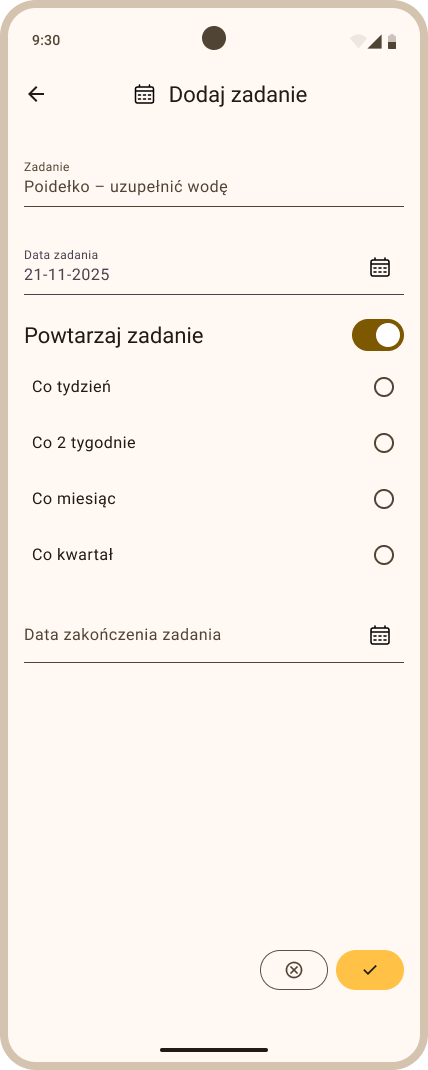
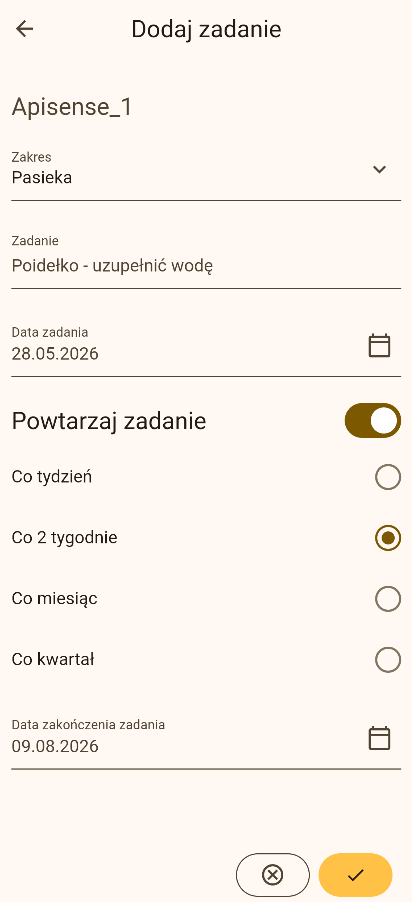
update text

diff --git a/docs/manual/app-manual.en.md b/docs/manual/app-manual.en.md
@@ -567,18 +567,17 @@ Figure: Deleting a note from the hive note list {#fig-beehive-details-remove-not
 
 ### 5. Tasks
 
-Tasks (calendar) let you plan apiary work — inspections, feeding, honey harvests, maintenance. Each task has a date, a status (*To do* / *Done*) and a **scope** that defines which apiaries and hives it applies to. Tasks can be configured to repeat (series) and marked as done as you carry them out.
+Tasks (calendar) let you plan apiary work — inspections, feeding, honey harvests, maintenance. Each task has a date, a status (*To do* / *Done*) and a **scope** that defines which apiaries and hives it applies to. Tasks can repeat (series) and be marked as done as you carry them out.
 
 #### 5.1 What is a task
 
 Each task contains the following information:
 
-- **Name** — short title (required).
-- **Description** — details, contextual note (optional).
-- **Date** — when the task is to be done.
-- **Status** — *To do* (planned) or *Done*.
+- **Task** — short description/name of the task, contextual note (required field).
+- **Task date** — when the task is to be done.
+- **Status** — *To do* (planned) or *Done*. Note: Task status can only be changed after the task has been added to the calendar.
 - **Scope** — whether the task applies to the whole apiary, selected hives, or a single hive (see [5.2 Task scope](#52-task-scope-where-it-is-visible-and-editable)).
-- **Recurrence** — optional; every 7 days, 14 days, 1 month or 3 months, with a series end date (see [5.5 Repeating tasks](#55-repeating-tasks)).
+- **Recurrence** — optional; every 1 week, 2 weeks, 1 month or 3 months, with a series end date (see [5.5 Repeating tasks](#55-repeating-tasks)).
 
 #### 5.2 Task scope (where it is visible and editable)
 
@@ -591,11 +590,11 @@ The scope defines where the task is visible and from where it can be edited and 
 | Single hive      | Yes                    | Yes — only in that one hive   | Yes                      |
 
 !!! tip
-    Tasks with scope *Whole apiary* or *Selected hives* can be edited and deleted **only from the apiary level** — from the hive level they are read-only. A task created for a single hive can be edited and deleted from that hive's level.
+    Tasks with scope *Whole apiary* or *Selected hives* can be edited and deleted **only from the apiary level** — from the hive level they are read-only. A task created for a single hive can be edited and deleted from that hive's level, as well as from the apiary level.
 
 #### 5.3 Adding a task from the apiary level
 
-From the apiary level you can create a task for the **whole apiary**, for **selected hives**, or as a recurring series.
+From the apiary level you can create a task for the **whole apiary** (Scope: Apiary), for **selected hives**, or several tasks in a series.
 
 - In the *Apiaries* tab, click the tile of the apiary for which you want to add a task. The *Hives* view will be displayed.
 - From the bottom menu choose *Add...*, then *Task* ([](#fig-apiary-add-task)). The *Add task* view will be displayed.
@@ -606,19 +605,20 @@ Figure: Add task view from the apiary level {#fig-apiary-add-task}
 
 - In the *Add task* view fill in the following fields:
 
-    - **Name** — enter the task title (e.g. *Spring inspection*).
-    - **Description** — optionally add details (e.g. *Check winter stores, assess colony strength*).
-    - **Date** — choose the task date (current date by default).
     - **Scope** — select one of:
-        - *Whole apiary* — the task will appear in all hives in this apiary.
-        - *Selected hives* — after choosing this option, pick the specific hives from the list.
+        - *Apiary* — the task will appear in all hives in this apiary.
+        - *Selected hives* — after choosing this option, select the specific hives from the list.
+    - **Task** — enter the task content (e.g. *Spring inspection*).
+    - **Task date** — choose the task date (current date by default).
     - **Recurrence** (optional) — see [5.5 Repeating tasks](#55-repeating-tasks).
 
-- To save the task, click the yellow button in the bottom right corner of the screen. The saved task will appear on the apiary task list (*Tasks* tab).
+- To save the task, click the yellow button in the bottom right corner of the screen. The saved task will appear on the apiary task list (*Tasks* tab) and in all hives in this apiary (*Hive details > More > Tasks*).
 
 #### 5.4 Adding a task from the hive level
 
-A task added from the hive level automatically has scope *Single hive* — it is visible only in that hive and can be edited from its level.
+A task added from the hive level will appear on the task list in that specific hive and in the apiary. Such a task can also be edited or deleted from both levels — apiary and hive.
+
+To add a task from the hive level:
 
 - In the *Apiaries* tab click the apiary tile, then click the hive tile for which you want to add a task. The *Hive details* view will be displayed.
 - From the bottom menu choose *Add...*, then *Task* ([](#fig-beehive-add-task)). The *Add task* view will be displayed.
@@ -627,22 +627,19 @@ Figure: Add task view from the hive level {#fig-beehive-add-task}
 
 ![figure](pictures/beehive_add_task.PNG){width=200}
 
-- Fill in **Name**, **Description** (optional), **Date** and optionally **Recurrence**. There is no scope picker — the task automatically applies to this hive.
+- Fill in **Task** (required), **Task date**, and optionally check **Repeat task**. There is no scope picker — the task automatically applies to this hive.
 - Click the yellow save button in the bottom right corner.
 
 #### 5.5 Repeating tasks
 
-A task can be configured to repeat. In the *Recurrence* section of the *Add task* view choose:
+A task can be configured to repeat ([](#fig-task-series-apply-to)). In the *Repeat task* section of the *Add task* view choose:
 
-- **Frequency** — every 7 days, 14 days, 1 month or 3 months.
-- **Series end date** — at most 1 year from the first task date.
+- **Frequency** — every 1 week, 2 weeks, 1 month or 3 months.
+- **Task end date** — at most 1 year from the date of the first task.
 
-The app will create separate task occurrences for every date in this range. All occurrences belong to one **series** and can be edited or deleted together.
+The app will create separate task occurrences according to the chosen frequency (e.g. every week) within the given date range. Each occurrence is an independent task and can be edited or deleted separately.
 
-!!! tip
-    When editing or deleting a recurring task, you choose the scope of the change: **this occurrence only**, **this and future occurrences**, or **all occurrences in the series** ([](#fig-task-series-apply-to)). When changing the task date in a series, only the *this occurrence only* option is available.
-
-Figure: Choosing the series change scope {#fig-task-series-apply-to}
+Figure: Creating a recurring task {#fig-task-series-apply-to}
 
 ![figure](pictures/task_series_apply_to.PNG){width=200}
 
@@ -655,11 +652,14 @@ Figure: Marking a task as done {#fig-task-mark-done}
 
 ![figure](pictures/task_mark_done.PNG){width=200}
 
+!!! note
+    From the apiary level you can mark any task as done. From the hive level you can mark as done only a task that was added from that specific hive.
+
 #### 5.7 Editing a task
 
-- On the task list click the chosen task or the pencil icon to open the *Edit task* view ([](#fig-task-edit)).
-- Update fields: **Name**, **Description**, **Date**, **Status** or (for single-hive tasks edited from the apiary level) **Scope**.
-- For a recurring task, choose whether the change applies to this occurrence only, this and future, or all occurrences in the series (see [5.5 Repeating tasks](#55-repeating-tasks)).
+- On the task list, click the pencil icon next to the chosen task to open the *Edit task* view ([](#fig-task-edit)).
+- Update fields: **Task**, **Task date**, **Repeat task**.
+- For a recurring task, choose the frequency (e.g. *Every month*) and fill in the *Task end date* (see [5.5 Repeating tasks](#55-repeating-tasks)).
 - Save the changes with the yellow button in the bottom right corner.
 
 Figure: Editing a task {#fig-task-edit}
@@ -667,34 +667,37 @@ Figure: Editing a task {#fig-task-edit}
 ![figure](pictures/task_edit.png){width=200}
 
 !!! note
-    Tasks with scope *Whole apiary* or *Selected hives* can be edited and deleted **only from the apiary level**. From the hive level you will see such a task only as a read-only preview — without edit and delete icons.
+    Tasks with scope *Apiary* or *Selected hives* can be edited and deleted **only from the apiary level**. From the hive level you will see such a task only as a read-only preview — with a grayed-out pencil icon.
 
 #### 5.8 Deleting a task
 
-- On the task list swipe the row with the chosen task to the left, or use the bin icon available in the task view ([](#fig-task-delete)).
-- Confirm the deletion. For tasks in a series, also confirm the deletion scope (this occurrence only / this and future / all).
+- On the task list swipe the row with the chosen task to the left ([](#fig-task-delete)).
+- To delete the chosen task, click the bin icon on the red background.
 
 Figure: Deleting a task {#fig-task-delete}
 
 ![figure](pictures/task_delete.PNG){width=200}
 
+!!! note
+    Tasks with scope *Apiary* or *Selected hives* can be edited and deleted **only from the apiary level**. Deleting such a task from the apiary level will automatically remove the related tasks from the view in all hives.
+
 #### 5.9 Task list and filtering
 
 You will find the task list in the *Tasks* tab:
 
-- **From the apiary level** — displays all apiary tasks: scope *Whole apiary*, *Selected hives*, and single-hive tasks belonging to that apiary ([](#fig-apiary-tasks-list)).
+- **From the apiary level** — displays all apiary tasks: scope *Apiary*, *Selected hives*, and single-hive tasks belonging to that apiary ([](#fig-apiary-tasks-list)).
 
 Figure: Task list in the apiary view {#fig-apiary-tasks-list}
 
 ![figure](pictures/apiary_tasks.png){width=200}
 
-- **From the hive level** — displays the tasks visible in this hive: *Whole apiary* tasks, *Selected hives* tasks covering this hive, and *Single hive* tasks for this hive ([](#fig-beehive-tasks-list)).
+- **From the hive level** — displays the tasks visible in this hive: *Apiary* tasks, *Selected hives* tasks covering this hive, and *Single hive* tasks for this hive ([](#fig-beehive-tasks-list)).
 
 Figure: Task list in the hive view {#fig-beehive-tasks-list}
 
 ![figure](pictures/beehive_details_tasks_list.png){width=200}
 
-You can filter the task list by date and status (*To do* / *Done*). In the hive view, tasks that do not apply directly to this hive (scope *Whole apiary* or *Selected hives*) have no edit icons — such tasks are read-only.
+You can filter the task list by status (*All*, *To do*, *Done*).
 
 ### 6. Confirming diseases
 

diff --git a/docs/manual/app-manual.pl.md b/docs/manual/app-manual.pl.md
@@ -566,10 +566,9 @@ Zadania (kalendarz) pozwalają planować pracę w pasiece — przeglądy, podkar
 
 Każde zadanie zawiera następujące informacje:
 
-- **Nazwa** — krótki tytuł (pole wymagane).
-- **Opis** — szczegóły, notatka kontekstowa (pole opcjonalne).
-- **Data** — kiedy zadanie ma być wykonane.
-- **Status** — *Do zrobienia* (planowane) lub *Wykonane*.
+- **Zadanie** — krótki opis/nazwa zadania, notatka kontekstowa (pole wymagane).
+- **Data zadania** — kiedy zadanie ma być wykonane.
+- **Status** — *Do zrobienia* (planowane) lub *Wykonane*. Uwaga: Status zadania można zmienić dopiero po dodaniu zadania do kalendarza.
 - **Zakres** — czy zadanie dotyczy całej pasieki, wybranych uli, czy jednego ula (patrz [5.2 Zakres zadania](#52-zakres-zadania-gdzie-jest-widoczne-i-edytowalne)).
 - **Powtarzanie** — opcjonalne; co 7 dni, 14 dni, 1 miesiąc lub 3 miesiące, z datą końca serii (patrz [5.5 Powtarzanie zadań](#55-powtarzanie-zadan)).
 
@@ -583,12 +582,12 @@ Zakres określa, gdzie zadanie jest widoczne oraz skąd można je edytować i us
 | Wybrane ule       | Tak                       | Tak — tylko w wybranych ulach  | Nie                      |
 | Pojedynczy ul     | Tak                       | Tak — tylko w tym jednym ulu   | Tak                      |
 
-!!! tip
-    Zadania o zakresie *Cała pasieka* i *Wybrane ule* są edytowalne i usuwane wyłącznie z poziomu pasieki — z poziomu ula są dostępne tylko do podglądu. Zadanie utworzone dla pojedynczego ula można edytować i usunąć z poziomu tego ula.
+!!! Wskazówka
+    Zadania o zakresie *Cała pasieka* i *Wybrane ule* są edytowalne i usuwane wyłącznie z poziomu pasieki — z poziomu ula są dostępne tylko do podglądu. Zadanie utworzone dla pojedynczego ula można edytować i usunąć z poziomu tego ula, jak i z poziomu pasieki.
 
 #### 5.3 Dodawanie zadania z poziomu pasieki
 
-Z poziomu pasieki możesz utworzyć zadanie dla **całej pasieki**, dla **wybranych uli** lub kilka zadań w serii.
+Z poziomu pasieki możesz utworzyć zadanie dla **całej pasieki** (Zakres: Pasieka), dla **wybranych uli** lub kilka zadań w serii.
 
 - W zakładce *Pasieki* kliknij kafelek z pasieką, dla której chcesz dodać zadanie. Zostanie wyświetlony widok *Ule*.
 - Z dolnego menu wybierz opcję *Dodaj...*, a następnie *Zadanie* ([](#fig-apiary-add-task)). Zostanie wyświetlony widok *Dodaj zadanie*.
@@ -599,19 +598,20 @@ Figure: Widok Dodaj zadanie z poziomu pasieki {#fig-apiary-add-task}
 
 - W widoku *Dodaj zadanie* wypełnij następujące pola:
 
-    - **Nazwa** — wpisz tytuł zadania (np. *Przegląd wiosenny*).
-    - **Opis** — opcjonalnie dodaj szczegóły (np. *Sprawdzić zapasy zimowe, ocenić siłę rodziny*).
-    - **Data** — wybierz datę zadania (domyślnie aktualna).
     - **Zakres** — wybierz jedną z opcji:
-        - *Cała pasieka* — zadanie pojawi się we wszystkich ulach tej pasieki.
+        - *Pasieka* — zadanie pojawi się we wszystkich ulach tej pasieki.
         - *Wybrane ule* — po wyborze opcji zaznacz konkretne ule z listy.
+    - **Zadanie** — wpisz treść zadania (np. *Przegląd wiosenny*).
+    - **Data zadania** — wybierz datę zadania (domyślnie aktualna).    
     - **Powtarzanie** (opcjonalnie) — patrz [5.5 Powtarzanie zadań](#55-powtarzanie-zadan).
 
-- Aby zapisać zadanie, kliknij żółty przycisk w prawym dolnym rogu ekranu. Zapisane zadanie pojawi się na liście zadań pasieki (zakładka *Zadania*).
+- Aby zapisać zadanie, kliknij żółty przycisk w prawym dolnym rogu ekranu. Zapisane zadanie pojawi się na liście zadań pasieki (zakładka *Zadania*) oraz we wszystkich ulach w tej pasiece (*Szczegóły ula > Więcej > Zadania*).
 
 #### 5.4 Dodawanie zadania z poziomu ula
 
-Zadanie dodane z poziomu ula ma automatycznie zakres *Pojedynczy ul* — jest widoczne tylko w tym ulu i można je edytować z jego poziomu.
+Zadanie dodane z poziomu ula będzie widoczne na liście zadań, zarówno w tym konkretnym ulu jak i w pasiece. Takie zadanie będzie można również edytować lub usunąć z obu tych poziomów - pasieki i ula. 
+
+Aby dodać zadanie z poziomu ula:
 
 - W zakładce *Pasieki* kliknij kafelek z pasieką, a następnie kafelek ula, dla którego chcesz dodać zadanie. Zostanie wyświetlony widok *Szczegóły ula*.
 - Z dolnego menu wybierz opcję *Dodaj...*, a następnie *Zadanie* ([](#fig-beehive-add-task)). Zostanie wyświetlony widok *Dodaj zadanie*.
@@ -620,22 +620,19 @@ Figure: Widok Dodaj zadanie z poziomu ula {#fig-beehive-add-task}
 
 ![figure](pictures/beehive_add_task.PNG){width=200}
 
-- Uzupełnij pola **Nazwa**, **Opis** (opcjonalnie), **Data** oraz opcjonalnie **Powtarzanie**. Brak wyboru zakresu — zadanie automatycznie dotyczy tego ula.
+- Uzupełnij pola **Zadanie** (wymagane), **Data zadania** oraz opcjonalnie zaznacz **Powtarzaj zadanie**. Brak wyboru zakresu — zadanie automatycznie dotyczy tego ula.
 - Kliknij żółty przycisk zapisu w prawym dolnym rogu.
 
 #### 5.5 Powtarzanie zadań
 
-Zadanie można skonfigurować jako powtarzające się. W sekcji *Powtarzanie* w widoku *Dodaj zadanie* wybierz:
+Zadanie można skonfigurować jako powtarzające się ([](#fig-task-series-apply-to)). W sekcji *Powtarzaj zadanie* w widoku *Dodaj zadanie* wybierz:
 
-- **Częstotliwość** — co 7 dni, 14 dni, 1 miesiąc lub 3 miesiące.
-- **Data końca serii** — maksymalnie 1 rok od daty pierwszego zadania.
+- **Częstotliwość** — co 1 tydzień, 2 tygodnie, 1 miesiąc lub 3 miesiące.
+- **Data zakończenia zadania** — maksymalnie 1 rok od daty pierwszego zadania.
 
-Aplikacja utworzy osobne wystąpienia zadania dla każdej daty z tego zakresu. Wszystkie wystąpienia należą do jednej **serii** i mogą być edytowane lub usunięte razem.
+Aplikacja utworzy osobne wystąpienia zadania zgodnie z wybraną częstotliwością (np. co tydzień) w podanym zakresie dat. Każde wystąpienie jest niezależnym zadaniem i może być edytowane lub usunięte osobno.
 
-!!! tip
-    Przy edycji lub usunięciu powtarzającego się zadania wybierasz, czego ma dotyczyć zmiana: **tylko to wystąpienie**, **to i przyszłe wystąpienia** lub **wszystkie wystąpienia w serii** ([](#fig-task-series-apply-to)). Przy zmianie daty zadania w serii dostępna jest wyłącznie opcja *tylko to wystąpienie*.
-
-Figure: Wybór zakresu zmiany w serii {#fig-task-series-apply-to}
+Figure: Utworzenie cyklicznego zadania {#fig-task-series-apply-to}
 
 ![figure](pictures/task_series_apply_to.PNG){width=200}
 
@@ -648,46 +645,52 @@ Figure: Oznaczanie zadania jako wykonane {#fig-task-mark-done}
 
 ![figure](pictures/task_mark_done.PNG){width=200}
 
+!!! Uwaga
+    Z poziomu pasieki można oznaczyć dowolne zadanie jako wykonane. Z poziomu ula można oznaczyć jako wykonane wyłącznie zadanie, które zostało dodane z poziomu tego konkretnego ula.
+
 #### 5.7 Edycja zadania
 
-- Na liście zadań kliknij wybrane zadanie lub ikonę ołówka, aby otworzyć widok *Edycja zadania* ([](#fig-task-edit)).
-- Zaktualizuj pola: **Nazwa**, **Opis**, **Data**, **Status** lub (dla zadań pojedynczego ula z poziomu pasieki) **Zakres**.
-- Dla zadania powtarzającego się wybierz, czy zmiana ma dotyczyć tylko tego wystąpienia, tego i przyszłych, czy wszystkich w serii (patrz [5.5 Powtarzanie zadań](#55-powtarzanie-zadan)).
+- Na liście zadań przy wybranym zadaniu kliknij ikonę ołówka, aby otworzyć widok *Edycja zadania* ([](#fig-task-edit)).
+- Zaktualizuj pola: **Zadanie**, **Data zadania**, **Powtarzaj zadanie**.
+- Dla zadania powtarzającego się wybierz częstotliwość (np. *Co miesiąc*) oraz uzupełnij *Datę zakończenia zadania* (patrz [5.5 Powtarzanie zadań](#55-powtarzanie-zadan)).
 - Zapisz zmiany żółtym przyciskiem w prawym dolnym rogu.
 
 Figure: Edycja zadania {#fig-task-edit}
 
 ![figure](pictures/task_edit.png){width=200}
 
-!!! note
-    Zadania o zakresie *Cała pasieka* lub *Wybrane ule* można edytować i usuwać **wyłącznie z poziomu pasieki**. Z poziomu ula zobaczysz takie zadanie tylko jako podgląd — bez ikon edycji i usunięcia.
+!!! Uwaga
+    Zadania o zakresie *Pasieka* lub *Wybrane ule* można edytować i usuwać **wyłącznie z poziomu pasieki**. Z poziomu ula zobaczysz takie zadanie tylko jako podgląd — z wyszarzona ikoną ołówka.
 
 #### 5.8 Usuwanie zadania
 
-- Na liście zadań przesuń wiersz z wybranym zadaniem w lewą stronę lub użyj ikony kosza dostępnej w widoku zadania ([](#fig-task-delete)).
-- Potwierdź usunięcie. Dla zadań w serii potwierdź również zakres usunięcia (tylko to wystąpienie / to i przyszłe / wszystkie).
+- Na liście zadań przesuń wiersz z wybranym zadaniem w lewą stronę ([](#fig-task-delete)).
+- Aby usunąć wybrane zadanie kliknij ikonę kosza na czerwonym tle.
 
 Figure: Usuwanie zadania {#fig-task-delete}
 
 ![figure](pictures/task_delete.PNG){width=200}
 
+!!! Uwaga
+    Zadania o zakresie *Pasieka* lub *Wybrane ule* można edytować i usuwać **wyłącznie z poziomu pasieki**. Usunięcie takiego zadania z poziomu pasieki spowoduje automatyczne usunięcie powiązanych z nim zadań z widoku wszystkich uli.
+
 #### 5.9 Lista zadań i filtrowanie
 
 Listę zadań znajdziesz w zakładce *Zadania*:
 
-- **Z poziomu pasieki** — wyświetla wszystkie zadania pasieki: o zakresie *Cała pasieka*, *Wybrane ule* oraz zadania pojedynczych uli należących do tej pasieki ([](#fig-apiary-tasks-list)).
+- **Z poziomu pasieki** — wyświetla wszystkie zadania pasieki: o zakresie *Pasieka*, *Wybrane ule* oraz zadania pojedynczych uli należących do tej pasieki ([](#fig-apiary-tasks-list)).
 
 Figure: Lista zadań w widoku pasieki {#fig-apiary-tasks-list}
 
 ![figure](pictures/apiary_tasks.png){width=200}
 
-- **Z poziomu ula** — wyświetla zadania widoczne w tym ulu: zadania o zakresie *Cała pasieka*, zadania *Wybrane ule* obejmujące ten ul, oraz zadania *Pojedynczy ul* dla tego ula ([](#fig-beehive-tasks-list)).
+- **Z poziomu ula** — wyświetla zadania widoczne w tym ulu: zadania o zakresie *Pasieka*, zadania *Wybrane ule* obejmujące ten ul, oraz zadania *Pojedynczy ul* dla tego ula ([](#fig-beehive-tasks-list)).
 
 Figure: Lista zadań w widoku ula {#fig-beehive-tasks-list}
 
 ![figure](pictures/beehive_details_tasks_list.png){width=200}
 
-Listę zadań możesz filtrować po dacie oraz statusie (*Do zrobienia* / *Wykonane*). W widoku ula obok zadań niedotyczących bezpośrednio tego ula (zakres *Cała pasieka* lub *Wybrane ule*) brak ikon edycji — takie zadania są tylko do podglądu.
+Listę zadań możesz filtrować po statusie (*Wszystkie*, *Do zrobienia*, *Wykonane*).
 
 ### 6. Potwierdzanie chorób
 
